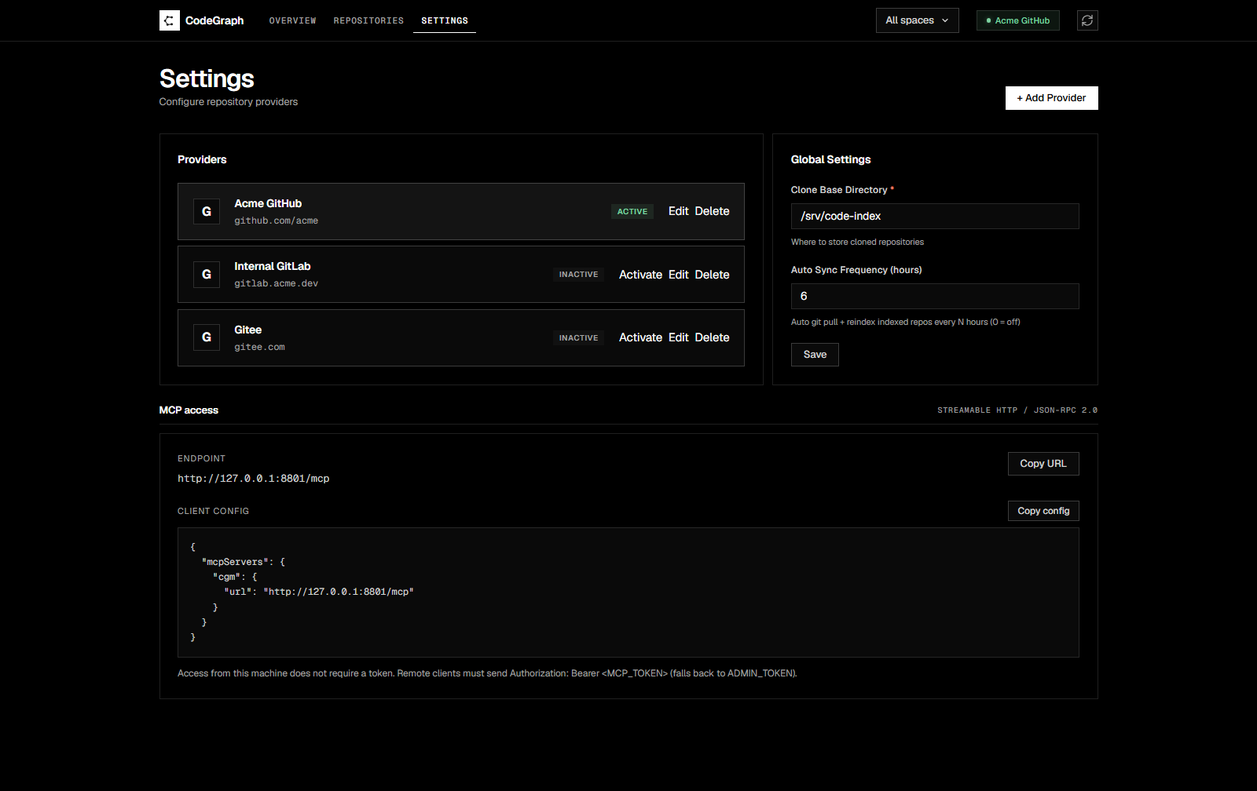
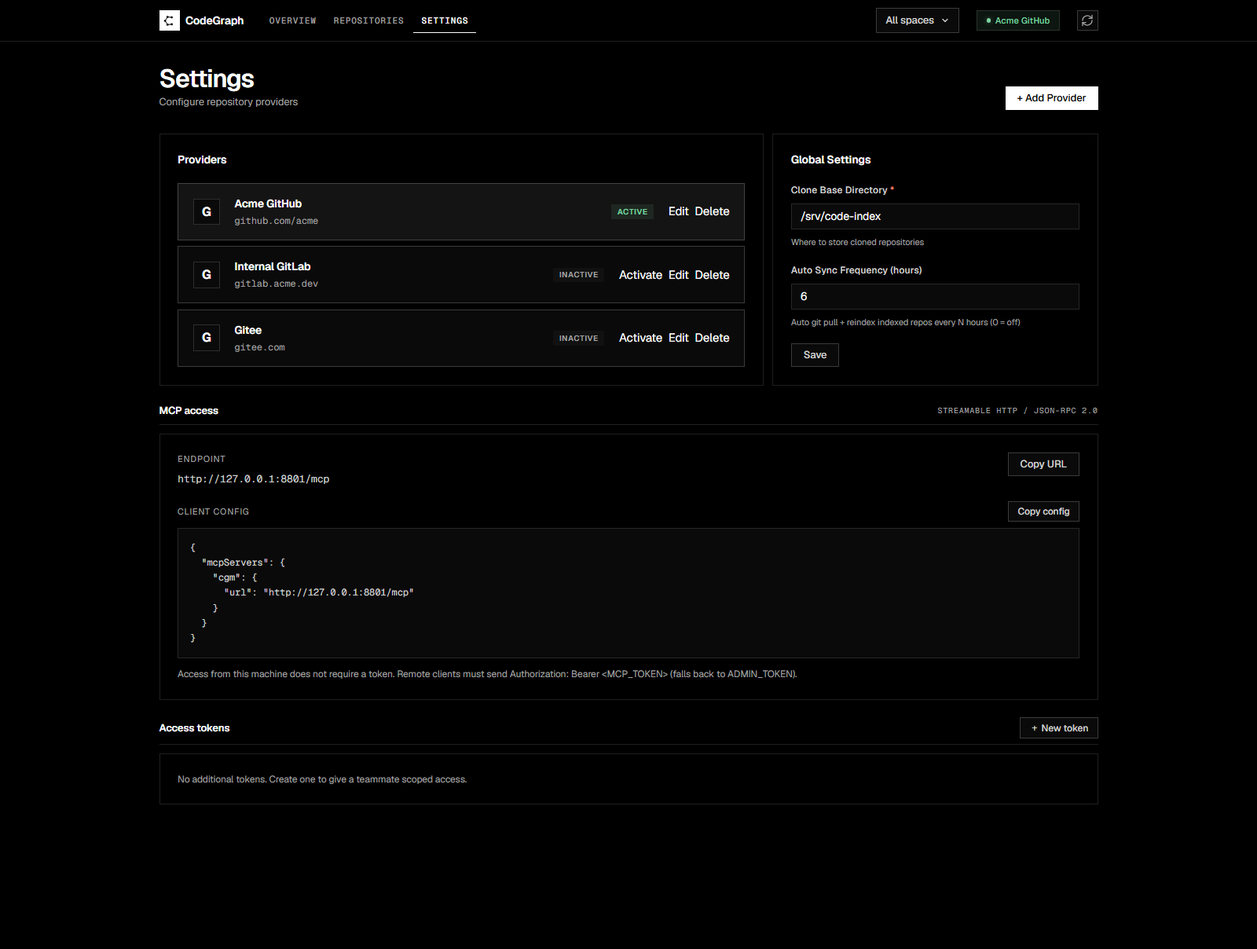
feat(auth): role-based access tokens with space scopes
Add a server-side token registry (SHA-256 hashes, show-once values, last-used, immediate revocation) and token management in Settings for admins. Tokens carry web and/or mcp roles and an optional space allowlist: web tokens can only see and operate repos in their spaces, mcp tokens only search those spaces, and /api/* stays admin-only for providers, settings, spaces and token management. The UI hides admin surfaces for web-only tokens and explains the web/MCP token split in the 401 dialog.

diff --git a/public/index.html b/public/index.html
@@ -241,7 +241,7 @@ tailwind.config = {
         </div>
       </div>
 
-      <div class="bg-surface border border-white/[0.04] rounded-md p-6 mb-3">
+      <div id="addRepoPanel" class="bg-surface border border-white/[0.04] rounded-md p-6 mb-3">
         <div class="flex items-center justify-between mb-5">
           <div class="text-[14px] font-semibold tracking-[-0.01em]">Add Repository</div>
         </div>
@@ -348,6 +348,12 @@ tailwind.config = {
           <pre id="mcpSnippet" class="bg-surface-elevated border border-white/[0.04] p-4 text-[12px] leading-[1.6] text-text-secondary overflow-x-auto font-mono"></pre>
         </div>
         <p id="mcpAuthNote" class="text-[12px] text-text-tertiary mt-3"></p>
+      </div>
+
+      <div class="flex items-center justify-between gap-4 border-b border-white/[0.04] pb-2 mt-6 mb-3"><b class="text-[13px] font-semibold tracking-[-0.01em]">Access tokens</b><button onclick="openTokenCreate()" class="inline-flex items-center gap-2 h-7 px-3 rounded-sm font-medium text-[12px] text-text-secondary bg-surface-elevated border border-white/[0.04] hover:text-text-primary hover:border-white/[0.07] hover:bg-surface-hover cursor-pointer transition-colors whitespace-nowrap">＋ New token</button></div>
+      <div class="bg-surface border border-white/[0.04] rounded-md p-6">
+        <div id="tokenList" class="flex flex-col gap-2"></div>
+        <div id="tokenEmpty" class="hidden text-[12px] text-text-tertiary">No additional tokens. Create one to give a teammate scoped access.</div>
       </div>
     </div>
 
@@ -521,6 +527,49 @@ tailwind.config = {
   </div>
 </div>
 
+<!-- Create access token -->
+<div id="tokenCreateOverlay" onclick="if(event.target===this)closeTokenCreate()"
+  class="fixed inset-0 z-[100] hidden [&.show]:flex items-center justify-center animate-fadeIn">
+  <div class="bg-surface border border-white/[0.07] rounded-lg p-8 w-full max-w-[520px] max-h-[85vh] overflow-y-auto shadow-modal">
+    <div id="tokenCreateForm">
+      <div class="text-[16px] font-semibold mb-2 tracking-[-0.01em]">New access token</div>
+      <p class="text-[12px] text-text-tertiary mb-5">Shown once. Pick the roles and spaces this token can access.</p>
+      <div class="flex flex-col gap-2 mb-5">
+        <label class="text-[12px] font-medium text-text-secondary">Name</label>
+        <input id="tokenName" placeholder="e.g. Cursor · Platform" onkeydown="if(event.key==='Enter')createToken()"
+          class="form-input h-9 px-3 bg-surface-elevated border border-white/[0.04] rounded-sm text-text-primary text-[14px] outline-none focus:border-accent placeholder:text-text-quaternary transition-colors">
+      </div>
+      <div class="mb-5">
+        <div class="text-[12px] font-medium text-text-secondary mb-2">Roles</div>
+        <label class="flex items-center gap-3 px-3 py-2 border border-white/[0.04] rounded-sm text-[13px] cursor-pointer hover:bg-surface-hover transition-colors"><input id="tokenRoleWeb" type="checkbox" checked class="w-4 h-4 accent-white"><span>Web UI</span></label>
+        <label class="flex items-center gap-3 px-3 py-2 mt-2 border border-white/[0.04] rounded-sm text-[13px] cursor-pointer hover:bg-surface-hover transition-colors"><input id="tokenRoleMcp" type="checkbox" class="w-4 h-4 accent-white"><span>MCP</span></label>
+      </div>
+      <div class="mb-5">
+        <div class="flex items-center justify-between mb-2"><div class="text-[12px] font-medium text-text-secondary">Spaces</div><span class="text-[11px] text-text-tertiary">Unchecked = all spaces</span></div>
+        <div id="tokenSpaces" class="flex flex-col gap-2"></div>
+      </div>
+      <div id="tokenCreateState" class="text-[11px] text-text-tertiary mb-2"></div>
+      <div class="flex gap-2 justify-end mt-6">
+        <button onclick="closeTokenCreate()"
+          class="inline-flex items-center gap-2 h-8 px-4 rounded-sm font-medium text-[13px] text-text-secondary bg-surface-elevated border border-white/[0.04] hover:text-text-primary hover:border-white/[0.07] hover:bg-surface-hover cursor-pointer transition-colors">Cancel</button>
+        <button onclick="createToken()"
+          class="inline-flex items-center gap-2 h-8 px-4 rounded-sm font-medium text-[13px] text-black bg-accent hover:bg-accent-hover cursor-pointer border-0 transition-colors">Create token</button>
+      </div>
+    </div>
+    <div id="tokenReveal" class="hidden">
+      <div class="text-[16px] font-semibold mb-2 tracking-[-0.01em]">Token created</div>
+      <p class="text-[12px] text-text-tertiary mb-4">Copy it now — it will not be shown again.</p>
+      <pre id="tokenValue" class="bg-surface-elevated border border-white/[0.04] p-4 text-[12px] leading-[1.6] text-text-secondary overflow-x-auto font-mono"></pre>
+      <div class="flex gap-2 justify-end mt-5">
+        <button onclick="copyTokenValue()"
+          class="inline-flex items-center gap-2 h-8 px-4 rounded-sm font-medium text-[13px] text-text-secondary bg-surface-elevated border border-white/[0.04] hover:text-text-primary hover:border-white/[0.07] hover:bg-surface-hover cursor-pointer transition-colors">Copy token</button>
+        <button onclick="closeTokenCreate()"
+          class="inline-flex items-center gap-2 h-8 px-4 rounded-sm font-medium text-[13px] text-black bg-accent hover:bg-accent-hover cursor-pointer border-0 transition-colors">Done</button>
+      </div>
+    </div>
+  </div>
+</div>
+
 <!-- Toast + Message Popover -->
 <div id="toast" class="toast fixed top-5 right-5 z-[200] px-5 py-3 rounded-md font-medium text-[13px] tracking-[0.01em] bg-surface border border-white/[0.07] shadow-toast"></div>
 <div id="msgPopover" class="hidden fixed z-[100] bg-surface border border-white/[0.07] rounded-md p-4 text-[13px] text-text-secondary max-w-[480px] max-h-[300px] overflow-y-auto whitespace-pre-wrap break-words shadow-popover"></div>
@@ -528,15 +577,27 @@ tailwind.config = {
 <script>
 /* ============ SAME JS — ALL UNCHANGED (Tailwind handles the classes via [&.xxx] arbitrary variants) ============ */
 const $=id=>document.getElementById(id);
-let S={},providers=[],repos=[],spaces=[{id:'all',name:'All',builtin:true}],currentSpace='all',selectedSet=new Set(),results=[];
+let S={},providers=[],repos=[],spaces=[{id:'all',name:'All',builtin:true}],currentSpace='all',selectedSet=new Set(),results=[],ME=null;
 const esc=s=>String(s??'').replace(/[&<>"]/g,c=>({'&':'&amp;','<':'&lt;','>':'&gt;','"':'&quot;'}[c]));
 function toast(msg,type=''){const t=$('toast');t.textContent=msg;t.className='toast fixed top-5 right-5 z-[200] px-5 py-3 rounded-md font-medium text-[13px] tracking-[0.01em] bg-surface border border-white/[0.07] shadow-toast show'+(type?' '+type:'');clearTimeout(t._t);t._t=setTimeout(()=>t.className='toast fixed top-5 right-5 z-[200] px-5 py-3 rounded-md font-medium text-[13px] tracking-[0.01em] bg-surface border border-white/[0.07] shadow-toast',3000);}
 let TOKEN=localStorage.getItem('cgm_token')||'';
 const authHeaders=()=>TOKEN?{'Authorization':'Bearer '+TOKEN}:{};
-async function api(p,o={}){const r=await fetch(p.replace(/^\//,''),{...o,headers:{'content-type':'application/json',...authHeaders(),...(o.headers||{})}});if(r.status===401){promptToken('Access denied (401). The web UI requires the ADMIN_TOKEN; the MCP token only works for /mcp.');throw new Error('unauthorized');}return r.json();}
+async function api(p,o={}){const r=await fetch(p.replace(/^\//,''),{...o,headers:{'content-type':'application/json',...authHeaders(),...(o.headers||{})}});if(r.status===401){let j={};try{j=await r.json()}catch{};promptToken(j.error==='web_role_required'?'This token is MCP-only. Enter the ADMIN_TOKEN or a web-access token for the UI.':'Access denied (401). Enter the ADMIN_TOKEN or a web-access token.');throw new Error('unauthorized');}if(r.status===403){let j={};try{j=await r.json()}catch{};toast(j.error==='admin_required'?'Admin token required':j.error==='out_of_scope'?'Outside your allowed spaces':'Not allowed','error');throw new Error('forbidden');}return r.json();}
 function promptToken(msg){if(msg)$('tokenHint').textContent=msg;$('tokenOverlay').classList.add('show');setTimeout(()=>$('tokenInput').focus(),0);}
-async function saveTokenInput(){const v=$('tokenInput').value.trim();if(!v){toast('Please enter a token','error');return;}TOKEN=v;localStorage.setItem('cgm_token',v);$('tokenOverlay').classList.remove('show');toast('Token saved, reloading','success');try{await loadSettings();await loadRepos();}catch{}}
+async function saveTokenInput(){const v=$('tokenInput').value.trim();if(!v){toast('Please enter a token','error');return;}TOKEN=v;localStorage.setItem('cgm_token',v);$('tokenOverlay').classList.remove('show');try{await loadMe();await loadSettings();await loadRepos();connectSse();if(isAdmin())await loadTokens();toast('Token accepted','success');}catch{}}
 function clearSavedToken(){TOKEN='';localStorage.removeItem('cgm_token');$('tokenInput').value='';toast('Local token cleared');}
+async function loadMe(){ME=await api('/api/auth/me');applyPermissions();return ME;}
+const isAdmin=()=>!!(ME&&ME.admin);
+const canUseMcp=()=>!!(ME&&(ME.admin||ME.roles.includes('mcp')));
+function applyPermissions(){
+  const admin=isAdmin();
+  const navSettings=document.querySelector('.nav-pill[data-view="settings"]');
+  if(navSettings)navSettings.style.display=admin?'':'none';
+  const addPanel=$('addRepoPanel');
+  if(addPanel)addPanel.style.display=admin?'':'none';
+  if(!admin&&document.getElementById('view-settings')?.classList.contains('active'))switchView('overview');
+  if(repos.length||spaces.length){try{renderSpaces();renderRepos();renderStats();}catch{}}
+}
 window.addEventListener('unhandledrejection',e=>{if(e&&e.reason&&e.reason.message==='unauthorized')e.preventDefault();});
 const STATUS={registered:['','Registered'],cloning:['cloning','Cloning'],cloned:['cloned','Cloned'],indexing:['indexing','Indexing'],indexed:['indexed','Indexed'],removing:['removing','Removing'],failed:['failed','Failed'],pull_failed:['failed','Pull Failed']};
 const PROVIDER_LABELS={gitlab:'GitLab',gitee:'Gitee',github:'GitHub'};
@@ -622,15 +683,15 @@ async function addSelected(){const items=[...selectedSet].map(i=>results[i]);if(
 
 /* Space menu — .show / .active 由 Tailwind [&.active]:accent 响应 */
 async function loadSpaces(){spaces=await api('/api/spaces');renderSpaces();}
-function switchView(view){document.querySelectorAll('.nav-pill').forEach(x=>x.classList.toggle('active',x.dataset.view===view));document.querySelectorAll('.view').forEach(v=>v.classList.toggle('active',v.id==='view-'+view));}
+function switchView(view){if(view==='settings'&&!isAdmin())view='overview';document.querySelectorAll('.nav-pill').forEach(x=>x.classList.toggle('active',x.dataset.view===view));document.querySelectorAll('.view').forEach(v=>v.classList.toggle('active',v.id==='view-'+view));if(view==='settings'&&isAdmin())loadTokens().catch(()=>{});}
 function renderSpaces(){const menu=$('spaceMenu');if(!menu)return;const sorted=[...spaces].sort((a,b)=>(a.order??0)-(b.order??0));const cur=spaces.find(s=>s.id===currentSpace)||{};
   $('spaceTriggerLabel').textContent=cur.builtin?'All spaces':(cur.name||'All spaces');
   menu.innerHTML='<div class="px-3 pt-1 pb-2 text-[10px] text-text-quaternary tracking-[0.08em] uppercase">Filter by space</div>'+sorted.map(s=>`<div class="[&.active]:text-accent flex items-center gap-3 px-3 py-2 rounded-sm cursor-pointer text-[13px] text-text-secondary hover:bg-surface-hover hover:text-text-primary transition-colors ${currentSpace===s.id?'active':''}" onclick="onSpaceSelect('${s.id}')">
       <span class="name flex-1 overflow-hidden text-ellipsis whitespace-nowrap">${s.builtin?'All':esc(s.name)}</span>
-      ${s.builtin?'':`<span class="del opacity-0 text-text-quaternary text-[14px] leading-none px-1 rounded-xs transition-all hover:opacity-100 hover:text-error hover:bg-error-dim">×</span>`}
+      ${s.builtin?'':(isAdmin()?`<span class="del opacity-0 text-text-quaternary text-[14px] leading-none px-1 rounded-xs transition-all hover:opacity-100 hover:text-error hover:bg-error-dim" onclick="event.stopPropagation();delSpace('${s.id}')">×</span>`:'')}
     </div>`).join('')
-    + `<div class="flex items-center gap-2 px-3 py-3 border-t border-white/[0.04] mt-0.5 text-accent font-medium text-[13px] cursor-pointer rounded-sm hover:bg-accent-dim transition-colors" onclick="openNewSpaceDialog()">
-         <svg width="14" height="14" viewBox="0 0 24 24" fill="none" stroke="currentColor" stroke-width="2.5" stroke-linecap="round" stroke-linejoin="round"><path d="M12 5v14M5 12h14"/></svg>New Space</div>`;}
+    + (isAdmin()?`<div class="flex items-center gap-2 px-3 py-3 border-t border-white/[0.04] mt-0.5 text-accent font-medium text-[13px] cursor-pointer rounded-sm hover:bg-accent-dim transition-colors" onclick="openNewSpaceDialog()">
+         <svg width="14" height="14" viewBox="0 0 24 24" fill="none" stroke="currentColor" stroke-width="2.5" stroke-linecap="round" stroke-linejoin="round"><path d="M12 5v14M5 12h14"/></svg>New Space</div>`:'');}
 function toggleSpaceMenu(){const m=$('spaceMenu');m.style.display=m.style.display==='none'?'block':'none';}
 document.addEventListener('click',e=>{const w=e.target.closest('.space-select');if(!w)$('spaceMenu').style.display='none';});
 async function onSpaceSelect(id){currentSpace=id;renderSpaces();$('spaceMenu').style.display='none';switchView('repos');await loadRepos();}
@@ -687,21 +748,23 @@ function renderStats(){
   renderOverviewRows(list);
 }
 function renderOverviewAlert(list,c){
-  const band=$('healthAlert'),lead=list.find(repoBad),busy=list.find(repoBusy);
+  const band=$('healthAlert'),lead=list.find(repoBad),busy=list.find(repoBusy),admin=isAdmin();
   const set=(state,label,count,title,detail,actions)=>{band.dataset.state=state;$('alertLabel').textContent=label;$('alertCount').textContent=count==null?'':String(count);$('alertTitle').textContent=title;$('alertDetail').textContent=detail;$('alertActions').innerHTML=actions;};
   if(lead){
     const auth=/401|403|auth|token|credential|permission/i.test(lead.message||'');
     const op=lead.status==='pull_failed'?'sync':(lead.localPath?'analyze':'clone');
     const reason=shortText(lead.message||repoLabel(lead),150);
-    set('bad','NEEDS ACTION',c.failed,`${lead.name} ${repoLabel(lead).toLowerCase()}`,`${reason}${auth?' · check the source credentials, then retry':''}`,auth
+    set('bad','NEEDS ACTION',c.failed,`${lead.name} ${repoLabel(lead).toLowerCase()}`,`${reason}${auth?(admin?' · check the source credentials, then retry':' · ask an administrator to fix source credentials'):''}`,auth&&admin
       ?`<button class="btn-pill primary" onclick="switchView('settings')">Check credentials</button><button class="btn-pill" onclick="doOp('${lead.id}','${op}')">Retry</button>`
       :`<button class="btn-pill primary" onclick="doOp('${lead.id}','${op}')">Retry</button><button class="btn-pill" onclick="switchView('repos')">Open repository</button>`);
   }else if(busy){
     set('warn','PROCESSING',c.processing,`${busy.name} is ${repoLabel(busy).toLowerCase()}`,shortText(busy.message||'Index is catching up.',150),`<button class="btn-pill primary" onclick="switchView('repos')">View progress</button>`);
   }else if(!c.total){
-    set('ok','NOT CONNECTED','','No repositories yet','Add a provider, then connect a repository to build an index.',`<button class="btn-pill primary" onclick="switchView('settings')">Add provider</button>`);
+    set('ok','NOT CONNECTED','',admin?'No repositories yet':'No repositories in your spaces',admin?'Add a provider, then connect a repository to build an index.':'Ask an administrator to add or bind repositories for your spaces.',admin?`<button class="btn-pill primary" onclick="switchView('settings')">Add provider</button>`:`<button class="btn-pill primary" onclick="switchView('repos')">Open repositories</button>`);
+  }else if(c.indexed<c.total){
+    set('warn','UNINDEXED',c.total-c.indexed,`${c.total-c.indexed} repositories are not indexed`,'Clone or analyze them before relying on search.',`<button class="btn-pill primary" onclick="switchView('repos')">Review repositories</button>`);
   }else{
-    set('ok','ALL CLEAR','','Everything is indexed',`${c.indexed} repositories ready for MCP search.`,`<button class="btn-pill primary" onclick="switchView('repos')">＋ Add repository</button>`);
+    set('ok','ALL CLEAR','','Everything is indexed',`${c.indexed} repositories ready for MCP search.`,`<button class="btn-pill primary" onclick="switchView('repos')">${admin?'＋ Add repository':'Open repositories'}</button>`);
   }
 }
 function renderOverviewRows(list){
@@ -715,6 +778,7 @@ function renderOverviewRows(list){
     const action=repoBad(r)?`<button class="sig-action" onclick="doOp('${r.id}','${op}')">Retry</button>`
       :repoBusy(r)?'<button class="sig-action" disabled>Working</button>'
       :r.status==='cloned'?`<button class="sig-action" onclick="doOp('${r.id}','analyze')">Analyze</button>`
+      :r.status==='registered'?`<button class="sig-action" onclick="doOp('${r.id}','clone')">Clone</button>`
       :`<button class="sig-action" onclick="doOp('${r.id}','sync')">Sync</button>`;
     return `<div class="sig-row"><div class="sig-repo"><b>${esc(r.name)}</b><small>${esc(PROVIDER_LABELS[r.providerType]||r.providerType||'local')} · ${esc(r.branch||'—')}${spaceNames(r).length?' · '+spaceInline(r):''}</small></div><span class="sig-status ${tone}">${esc(repoLabel(r))}</span><span class="sig-path" title="${esc(r.localPath||'')}">${esc(shortPath(r.localPath))}</span><span class="sig-time">${timeAgo(r.addedAt)}</span>${action}</div>`;
   }).join('');
@@ -724,7 +788,7 @@ const shortPath=p=>{if(!p)return 'Not cloned';const base=(S&&S.cloneBaseDir)||''
 function renderRepos(){const tb=$('repoTbody');tb.innerHTML='';const list=currentSpace==='all'?repos:repos.filter(r=>(r.spaceIds||[]).includes(currentSpace));$('repoEmpty').style.display=repos.length?'none':'flex';$('repoCount').textContent=list.length?list.length+' repositories':'';
   list.forEach(r=>{const [cls]=STATUS[r.status]||['',''];const msg=r.message||'';const shortMsg=msg.length>60?msg.slice(0,60)+'...':msg;
     const multiSpace=currentSpace!=='all'&&(r.spaceIds||[]).length>1;
-    const removeBtn=multiSpace
+    const removeBtn=isAdmin()&&multiSpace
       ? `<button class="btn-ghost [&.active]:bg-surface inline-flex items-center gap-2 h-[26px] px-2 text-[11px] text-text-tertiary bg-transparent border-0 rounded-sm cursor-pointer hover:text-text-primary hover:bg-surface-hover transition-colors whitespace-nowrap flex-none" title="Unbind from this space (repo is kept)" onclick="doUnbind('${r.id}')">Unbind</button>`
       : `<button class="btn-danger inline-flex items-center gap-2 h-[26px] px-2 text-[11px] rounded-sm cursor-pointer border border-error/20 text-error hover:bg-error-dim hover:border-error/30 transition-colors whitespace-nowrap flex-none" onclick="doRemove('${r.id}')">Remove</button>`;
     const tr=document.createElement('tr');tr.innerHTML=
@@ -732,7 +796,7 @@ function renderRepos(){const tb=$('repoTbody');tb.innerHTML='';const list=curren
          <div class="repo-name font-medium tracking-[-0.005em] overflow-hidden text-ellipsis whitespace-nowrap">${esc(r.name)}</div>
          <div class="repo-url text-[12px] text-text-tertiary font-mono mt-0.5 overflow-hidden text-ellipsis whitespace-nowrap">${esc(r.gitUrl||'')}</div>
          ${msg?`<div class="repo-msg text-[12px] text-text-tertiary mt-0.5 max-w-[280px] whitespace-nowrap overflow-hidden text-ellipsis cursor-pointer relative" onclick="showMsg(this,${JSON.stringify(esc(msg)).replace(/"/g,'&quot;')})" title="Click to expand">${esc(shortMsg)}</div>`:''}
-         <div class="repo-tags">${spaceNames(r).map(n=>`<span>#${esc(n)}</span>`).join('')}<button class="space-edit" onclick="openSpaceDialog('${r.id}')">+ Spaces</button></div>
+         <div class="repo-tags">${spaceNames(r).map(n=>`<span>#${esc(n)}</span>`).join('')}${isAdmin()?`<button class="space-edit" onclick="openSpaceDialog('${r.id}')">+ Spaces</button>`:''}</div>
        </td>
        <td class="px-5 py-3 border-b border-white/[0.04] align-middle">
          <div class="repo-path text-[12px] text-text-secondary font-mono overflow-hidden text-ellipsis whitespace-nowrap" title="${esc(r.localPath||'')}">${esc(shortPath(r.localPath))}</div>
@@ -788,16 +852,19 @@ async function copyText(text){try{await navigator.clipboard.writeText(text);retu
 function selectText(el){if(!el)return;const r=document.createRange();r.selectNodeContents(el);const s=getSelection();s.removeAllRanges();s.addRange(r);}
 async function copyMcpUrl(){const ok=await copyText(mcpEndpointUrl());if(!ok)selectText($('mcpEndpoint'));toast(ok?'MCP endpoint copied':'Copy failed — text selected, press Ctrl+C',ok?'success':'error');}
 async function copyMcpConfig(){const ok=await copyText(mcpConfig());if(!ok)selectText($('mcpSnippet'));toast(ok?'MCP client config copied':'Copy failed — text selected, press Ctrl+C',ok?'success':'error');}
+async function loadTokens(){if(!isAdmin())return;try{renderTokens(await api('/api/tokens'));}catch(e){}}
+function renderTokens(list){const el=$('tokenList');if(!el)return;const active=list.filter(t=>!t.revokedAt);$('tokenEmpty').classList.toggle('hidden',active.length>0);el.innerHTML=active.map(t=>{const roles=t.roles.map(r=>r==='web'?'Web UI':'MCP').join(' + ');const scope=t.spaceIds.length?t.spaceIds.map(id=>spaces.find(s=>s.id===id)?.name||id).join(', '):'All spaces';const created=new Date(t.createdAt).toLocaleDateString();const last=t.lastUsedAt?timeAgo(t.lastUsedAt):'never used';return `<div class="flex items-center gap-4 px-4 py-3 border border-white/[0.04] rounded-sm"><div class="min-w-0 flex-1"><div class="text-[13px] font-medium text-text-primary">${esc(t.name)}</div><div class="mt-1 text-[11px] text-text-tertiary font-mono overflow-hidden text-ellipsis whitespace-nowrap">${esc(roles)} · ${esc(scope)} · created ${esc(created)} · ${esc(last)}</div></div><button class="inline-flex items-center h-[26px] px-2 text-[11px] rounded-sm cursor-pointer border border-error/20 text-error hover:bg-error-dim hover:border-error/30 transition-colors whitespace-nowrap flex-none" onclick="revokeToken('${t.id}')">Revoke</button></div>`;}).join('')}
+function openTokenCreate(){if(!isAdmin())return;$('tokenName').value='';$('tokenRoleWeb').checked=true;$('tokenRoleMcp').checked=false;$('tokenCreateState').textContent='';$('tokenCreateForm').classList.remove('hidden');$('tokenReveal').classList.add('hidden');const list=spaces.filter(s=>!s.builtin);$('tokenSpaces').innerHTML=list.length?list.map(s=>`<label class="flex items-center gap-3 px-3 py-2 border border-white/[0.04] rounded-sm text-[13px] cursor-pointer hover:bg-surface-hover transition-colors"><input type="checkbox" value="${s.id}" class="w-4 h-4 accent-white"><span>${esc(s.name)}</span></label>`).join(''):'<div class="text-[12px] text-text-tertiary">No custom spaces yet. The token will access all spaces.</div>';$('tokenCreateOverlay').classList.add('show');setTimeout(()=>$('tokenName').focus(),0)}
+function closeTokenCreate(){$('tokenCreateOverlay').classList.remove('show')}
+async function createToken(){const name=$('tokenName').value.trim(),roles=[];if($('tokenRoleWeb').checked)roles.push('web');if($('tokenRoleMcp').checked)roles.push('mcp');const spaceIds=[...$('tokenSpaces').querySelectorAll('input:checked')].map(i=>i.value);if(!name){$('tokenCreateState').textContent='Enter a name.';return}if(!roles.length){$('tokenCreateState').textContent='Pick at least one role.';return}try{const r=await api('/api/tokens',{method:'POST',body:JSON.stringify({name,roles,spaceIds})});if(!r.token){$('tokenCreateState').textContent=r.error||'Failed to create token';return}$('tokenValue').textContent=r.token;$('tokenCreateForm').classList.add('hidden');$('tokenReveal').classList.remove('hidden');await loadTokens()}catch(e){}}
+async function copyTokenValue(){const ok=await copyText($('tokenValue').textContent);toast(ok?'Token copied':'Copy failed — select the token','success')}
+async function revokeToken(id){if(!confirm('Revoke this token? Clients using it lose access immediately.'))return;try{await api('/api/tokens/'+id,{method:'DELETE'});toast('Token revoked','success');await loadTokens()}catch(e){}}
 fillMcp();
-loadSettings().catch(()=>{});loadRepos().catch(()=>{});
-
-/* SSE */
-let connLive=false;
-const es=new EventSource(TOKEN?'mcp?token='+encodeURIComponent(TOKEN):'mcp');
-es.addEventListener('repos-changed',()=>loadRepos());
-es.onopen=()=>{connLive=true;};
-es.onerror=()=>{connLive=false;};
-setInterval(loadRepos,30000);
+let connLive=false,sse=null;
+function connectSse(){if(sse||!canUseMcp())return;sse=new EventSource(TOKEN?'mcp?token='+encodeURIComponent(TOKEN):'mcp');sse.addEventListener('repos-changed',()=>loadRepos());sse.onopen=()=>{connLive=true;};sse.onerror=()=>{connLive=false;};}
+async function boot(){try{await loadMe();await loadSettings();await loadRepos();if(isAdmin())await loadTokens();connectSse();}catch(e){}}
+boot();
+setInterval(()=>{if(ME)loadRepos();},30000);
 
 /* Message popover */
 function showMsg(el,msg){const popover=$('msgPopover');if(popover.classList.contains('show')&&popover._target===el){popover.classList.remove('show');return;}popover.textContent=msg;popover._target=el;const rect=el.getBoundingClientRect();popover.style.left=Math.min(rect.left,window.innerWidth-500)+'px';popover.style.top=(rect.bottom+8)+'px';popover.classList.add('show');}

diff --git a/README.en.md b/README.en.md
@@ -37,6 +37,7 @@ The whole pipeline — clone → index → AI retrieval — runs automatically. 
 
 **Security**
 - Route-level auth — `/api/*` and `/mcp*` guarded by `ADMIN_TOKEN` / `MCP_TOKEN`, constant-time comparison
+- Role-based access tokens — Settings → Access tokens creates `web` / `mcp` tokens; web tokens only see/operate repositories in their spaces, mcp tokens only search their spaces, admin is unrestricted
 - Loopback exemption — local access allowed by default (with same-origin checks so web pages can't hit your localhost); fail-closed when exposed: refuses to start without a token
 - Auto-generated 192-bit token on first start, persisted to `auth.json` — safe to expose without any manual setup
 - Token protection, three layers — AES-256-GCM at rest, masked in API responses (dots + last 4), masked PUT values never overwrite real tokens
@@ -158,6 +159,7 @@ Branch-scoped query example:
 | `/api/repos/:id/{clone,analyze,status,remove,sync}` | POST | Per-repo ops (async; same-repo ops are automatically serialized) |
 | `/api/repos/:id/worktree/:branch` | POST/DELETE | Create / remove a branch worktree |
 | `/api/spaces[/...]` | GET/POST/PUT/DELETE | Space management / repo binding |
+| `/api/tokens[/...]` | GET/POST/DELETE | Access-token management (admin): roles + space scopes |
 | `/api/browse?path=` | GET | Server-side directory browser (for adding local repos) |
 | `/mcp` · `/mcp/message` | POST/GET | MCP endpoint (Streamable HTTP + SSE) |
 

diff --git a/README.md b/README.md
@@ -38,6 +38,7 @@
 
 **安全**
 - 路由级鉴权 —— `/api/*` 与 `/mcp*` 分别持 `ADMIN_TOKEN` / `MCP_TOKEN`，`timingSafeEqual` 恒时比较
+- 角色化访问令牌 —— Settings → Access tokens 创建 `web` / `mcp` token；web 只能查看/操作授权空间内的仓库，mcp 只能检索授权空间，admin 无限制
 - 回环免鉴权 —— 本机访问默认放行（同源校验防网页打本地），对外开放时 fail-closed：无 token 拒绝启动
 - 首启自动生成随机令牌（192bit）持久化到 `auth.json`，不用手动配也能安全对外开放
 - Token 三重防护 —— 落盘 AES-256-GCM 加密、API 返回脱敏（掩码+末4位）、PUT 掩码不覆盖真值
@@ -159,6 +160,7 @@ MCP 端点：`http://127.0.0.1:8801/mcp`（Streamable HTTP / JSON-RPC 2.0）
 | `/api/repos/:id/{clone,analyze,status,remove,sync}` | POST | 单仓操作（异步执行，同仓操作自动排队互斥） |
 | `/api/repos/:id/worktree/:branch` | POST/DELETE | 分支 worktree 创建 / 删除 |
 | `/api/spaces[/...]` | GET/POST/PUT/DELETE | 空间分组管理 / 仓库绑定 |
+| `/api/tokens[/...]` | GET/POST/DELETE | 访问令牌管理（admin）：角色 + 空间范围 |
 | `/api/browse?path=` | GET | 服务端目录浏览（添加本地仓库用） |
 | `/mcp` · `/mcp/message` | POST/GET | MCP 端点（Streamable HTTP + SSE） |
 
